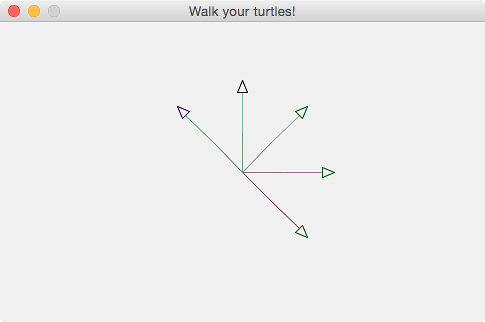
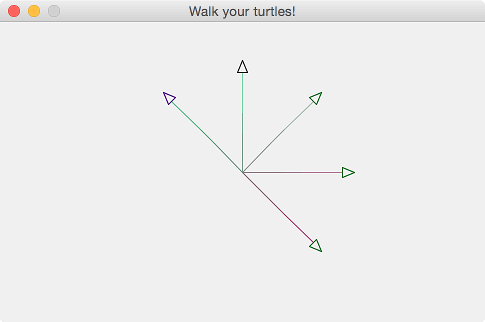
Adds one more path to function

diff --git a/outline/TURTLE-SAMPLES.md b/outline/TURTLE-SAMPLES.md
@@ -173,15 +173,34 @@ clojurebridge-turtle.walk=> (turtle-names)
 ![fifth's move](img/fifth-turtle-move.png)
 
 
+- go five turtles forward by 20
+
+```clojure
+clojurebridge-turtle.walk=> (forward :trinity 20)
+[:trinity 20]
+clojurebridge-turtle.walk=> (forward :smith0 20)
+[:smith0 20]
+clojurebridge-turtle.walk=> (forward :smith1 20)
+[:smith1 20]
+clojurebridge-turtle.walk=> (forward :smith2 20)
+[:smith2 20]
+clojurebridge-turtle.walk=> (forward :neo 20)
+[:neo 20]
+```
+
+![forward 20 more](img/forward20plus.png)
+
+
 #### 5. move all five turtles - introduction to function
 
-We've had five turtles and want to move those five.
+We've had five turtles and want to move or tilt those five.
 Let's think how we can make all five turtles go forward by 40?
 The simplest way would be to type `(forward :name 40)` five times.
 
 But wait. We are almost exhausted to type quite similar commands many times.
 Is there any handy way of doing this? Yes, there is.
 Clojure has many functions to accomplish this purpose.
+`doseq` function is one of them.
 
 - move 5 turtles forward using `doseq` function
 
@@ -214,11 +233,22 @@ nil
 
 
 - [bonus] put two `doseq`s in one
+
 ```clojure
 clojurebridge-turtle.walk=> (doseq [n (turtle-names)]
                        #_=> (right n 60)
                        #_=> (forward n 30))
 nil
+```
+
+- [bonus] using `map` (higher order function) and `juxt` functions
+
+```clojure
+clojurebridge-turtle.walk=> (map (juxt #(right % 60) #(forward % 30))
+(turtle-names))
+([[:trinity 60] [:trinity 30]] [[:smith0 60] [:smith0 30]]
+[[:smith1 60] [:smith1 30]] [[:smith2 60] [:smith2 30]] [[:neo 60]
+[:neo 30]])
 ```
 
 
@@ -402,7 +432,7 @@ It's time to move all those five turtles, forward, right and forward.
 ![move turtles](img/move-turtles.png)
 
 
-#### 7. 
+#### 7. Change parameters of forwards and right
 
 Writing a function makes this easy.
 
